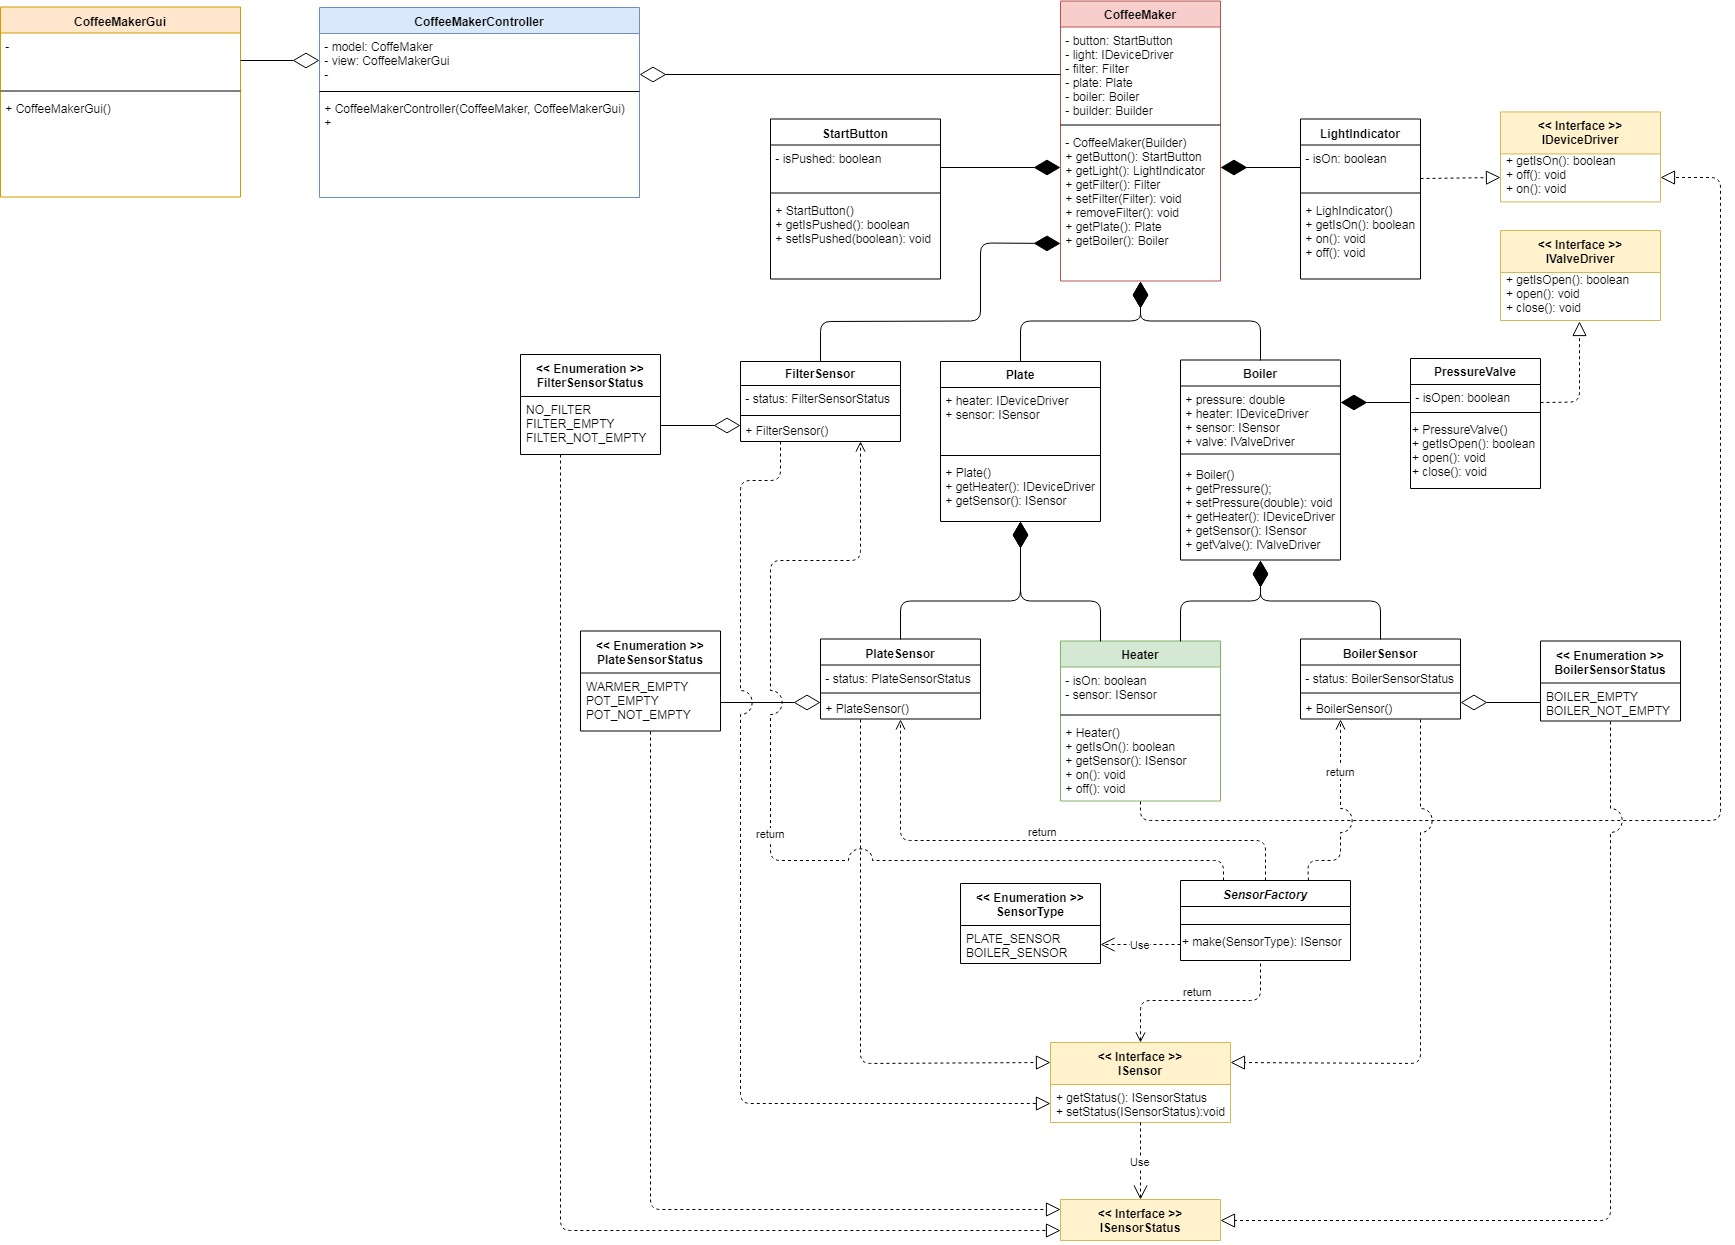
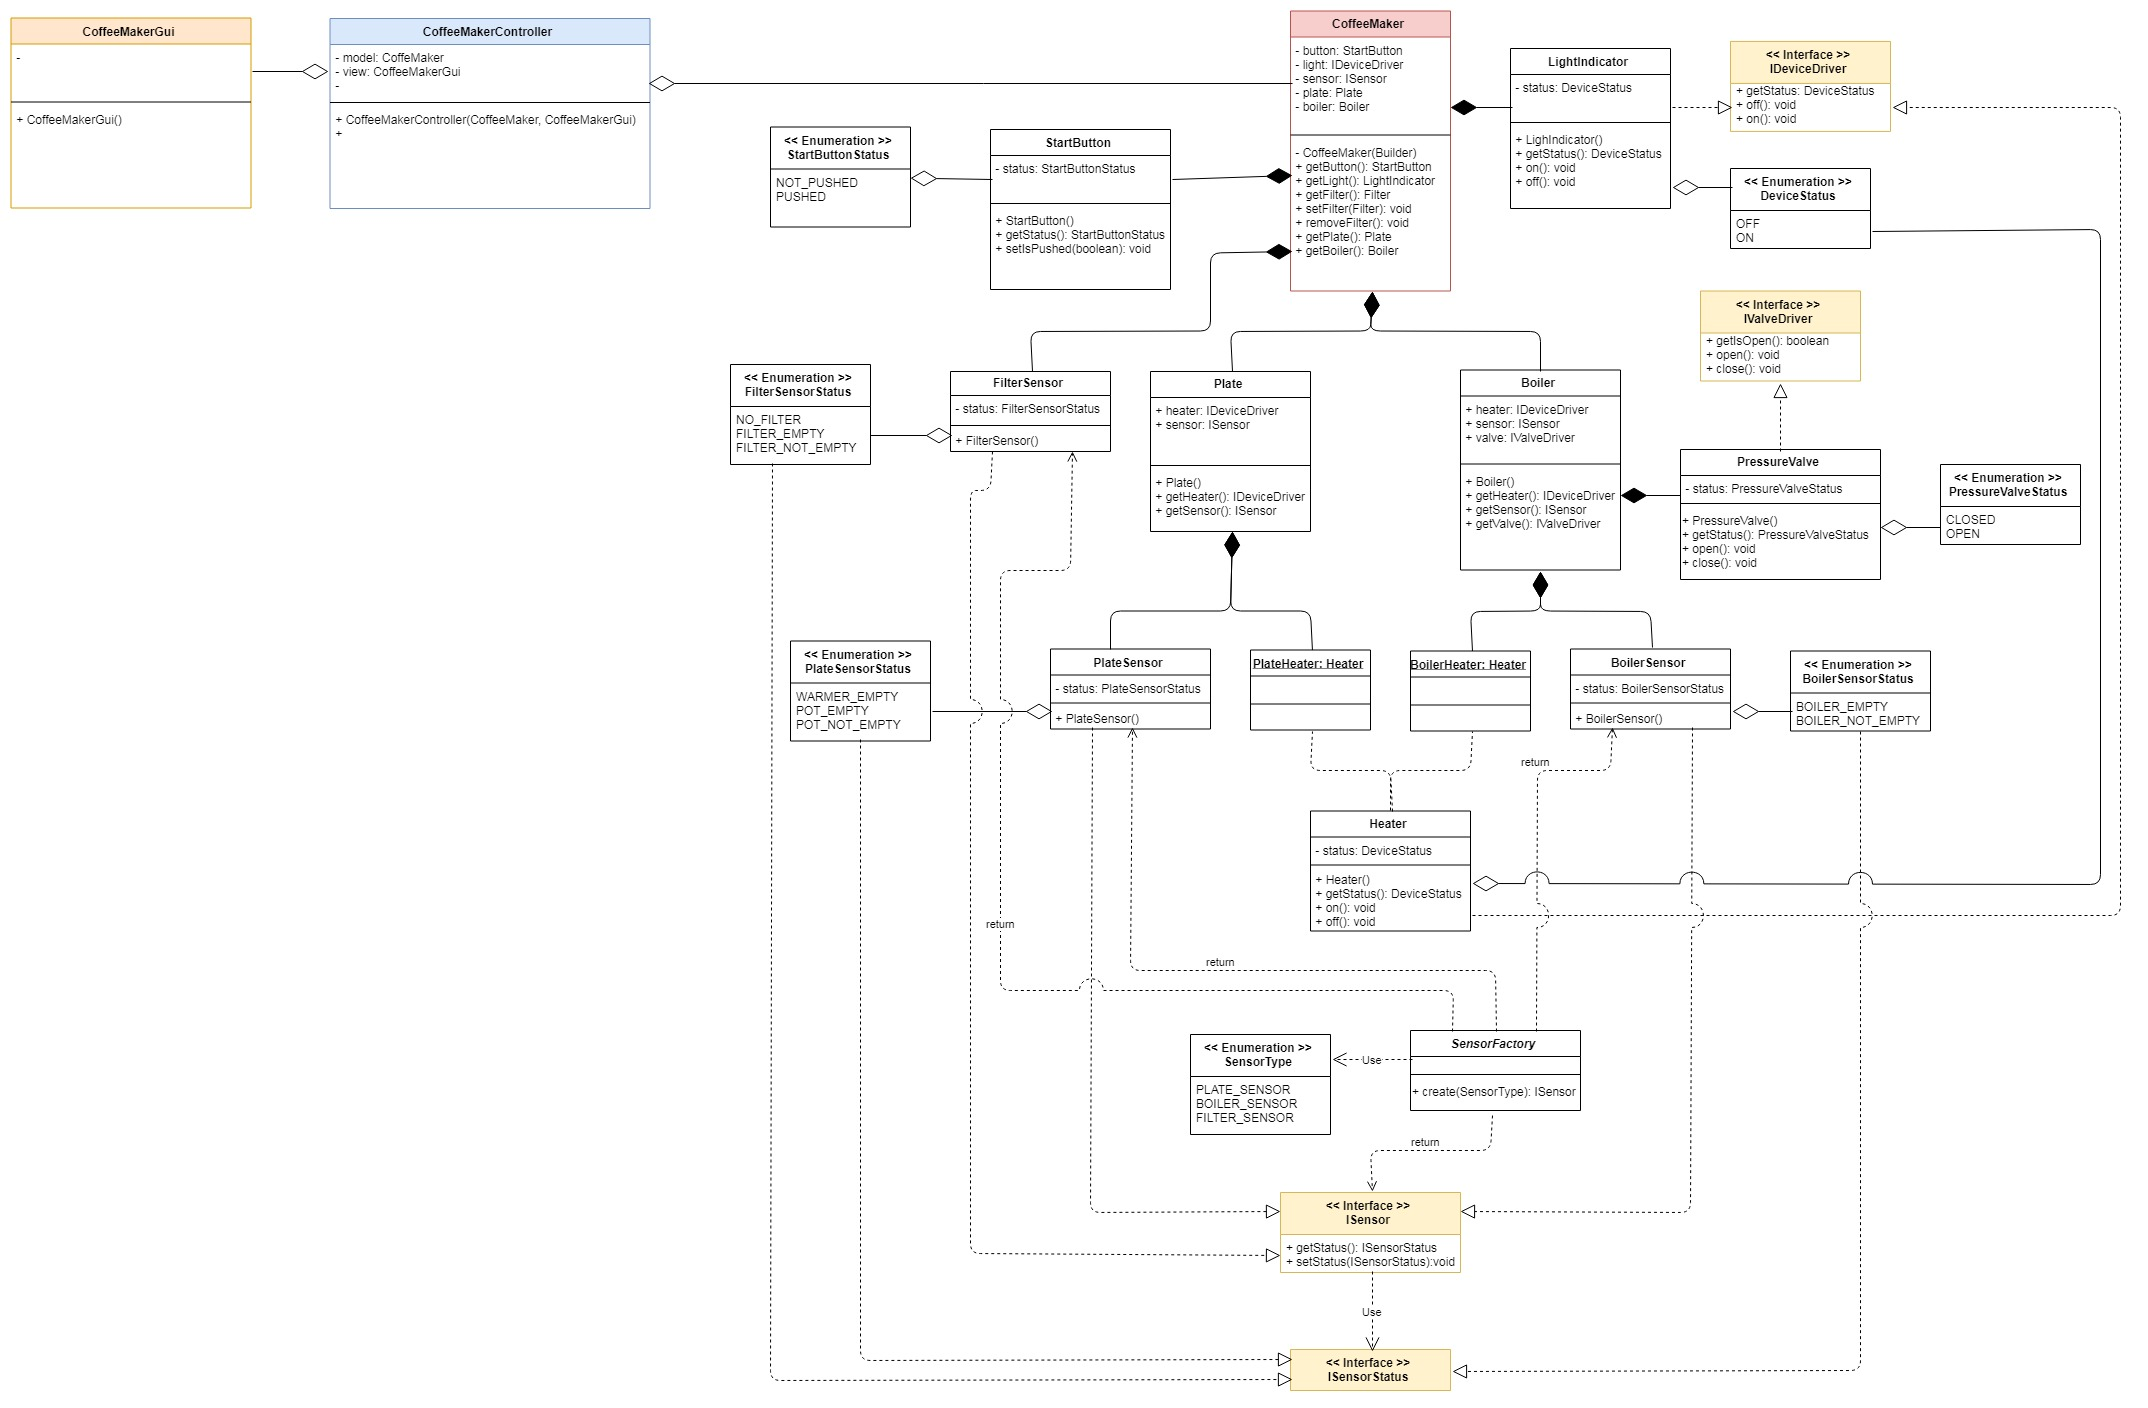
Unit Tests completed. UML diagram updated.

diff --git a/src/controller/CoffeeMakerController.java b/src/controller/CoffeeMakerController.java
@@ -68,7 +68,7 @@ public class CoffeeMakerController {
 				view.setPotEmpty();
 				view.setPlateSensorAsPlateEmpty();
 				model.getPlate().getSensor().setStatus(PlateSensorStatus.POT_EMPTY);
-				if (model.getLight().getStatus() == true) {
+				if (model.getLight().getStatus() == DeviceStatus.ON) {
 					view.setPlateHeaterOff();
 					model.getPlate().getHeater().off();
 				}
@@ -80,7 +80,7 @@ public class CoffeeMakerController {
 				view.setPotUnAvailable();
 				view.setPlateSensorAsWarmerEmpty();
 				model.getPlate().getSensor().setStatus(PlateSensorStatus.WARMER_EMPTY);
-				if (model.getLight().getStatus() == true) {
+				if (model.getLight().getStatus() == DeviceStatus.ON) {
 					view.setPlateHeaterOff();
 					model.getPlate().getHeater().off();
 				}
@@ -91,7 +91,7 @@ public class CoffeeMakerController {
 				view.setPotNotEmpty();
 				view.setPlateSensorAsPlateNotEmpty();
 				model.getPlate().getSensor().setStatus(PlateSensorStatus.POT_NOT_EMPTY);
-				if (model.getLight().getStatus() == true) {
+				if (model.getLight().getStatus() == DeviceStatus.ON) {
 					view.setPlateHeaterOn();
 					model.getPlate().getHeater().on();
 				}
@@ -158,7 +158,7 @@ public class CoffeeMakerController {
 	private boolean checkValve () {
 		boolean missingConditions = true;
 		//VALVE CHECK
-		if (model.getBoiler().getValve().getIsOpen()) {	// 1. Is the relief valve open?
+		if (model.getBoiler().getValve().getStatus() == PressureValveStatus.OPEN) {	// 1. Is the relief valve open?
 			issueReport[0] = "Relief valve must be closed!";
 		}
 		else { 

diff --git a/test/model/HeaterTest.java b/test/model/HeaterTest.java
@@ -6,27 +6,22 @@ import org.junit.Test;
 
 public class HeaterTest {
 	
-	IDeviceDriver heater = new Heater();
+	Heater heater = new Heater();
 
 	@Test
-	public void getStatus_heaterStatus_resultFalse() {
-		assertEquals(false, heater.getStatus());
+	public void getStatus_resultOff() {
+		assertEquals(DeviceStatus.OFF, heater.getStatus());
 	}
 	
 	@Test
-	public void getSensor_retrieveSensorObject_resultISensor() {
-		assertTrue (((Heater) heater).getSensor() instanceof ISensor);
-	}
-
-	@Test
-	public void on_HeaterOn_resultTrue() {
+	public void on_On_resultOn() {
 		heater.on();
-		assertEquals(true, heater.getStatus());
+		assertEquals(DeviceStatus.ON, heater.getStatus());
 	}
 
 	@Test
 	public void off_HeaterOff_resultFalse() {
 		heater.off();
-		assertEquals(false, heater.getStatus());
+		assertEquals(DeviceStatus.OFF, heater.getStatus());
 	}
 }

diff --git a/test/model/BoilerTest.java b/test/model/BoilerTest.java
@@ -5,23 +5,20 @@ import static org.junit.Assert.*;
 import org.junit.Test;
 
 public class BoilerTest {
-
 	Boiler boiler = new Boiler();
 
 	@Test
-	public void pruebaTest_Sensor() {
+	public void getSensor_resultISensor() {
 		assertTrue(boiler.getSensor() instanceof ISensor);
 	}
 	
 	@Test
-	public void pruebaTest_Heater() {
+	public void getHeater_resultIDeviceDriver() {
 		assertTrue(boiler.getHeater() instanceof IDeviceDriver);
 	}
 	
 	@Test
-	public void pruebaTest_Valve() {
+	public void getValve_resultPressureValve() {
 		assertTrue(boiler.getValve() instanceof PressureValve);
 	}
-	
-	
 }

diff --git a/test/model/PressureValveTest.java b/test/model/PressureValveTest.java
@@ -10,19 +10,19 @@ public class PressureValveTest {
 	
 	@Test
 	public void getStatus_pressureValveStatus_resultClosed() {		
-		assertEquals(false, valve.getIsOpen());
+		assertEquals(PressureValveStatus.CLOSED, valve.getStatus());
 	}
 
 	@Test
 	public void on_HeaterOn_resultTrue() {
 		valve.open();
-		assertEquals(true, valve.getIsOpen());
+		assertEquals(true, valve.getStatus());
 	}
 
 	@Test
 	public void off_HeaterOff_resultFalse() {
 		valve.close();
-		assertEquals(false, valve.getIsOpen());
+		assertEquals(false, valve.getStatus());
 	}
 
 }

diff --git a/test/model/FilterSensorTest.java b/test/model/FilterSensorTest.java
@@ -9,12 +9,12 @@ public class FilterSensorTest {
 	ISensor filterSensor = new FilterSensor();
 
 	@Test
-	public void getStatus_resultFilterSensorStatus() {
+	public void getStatus_resultFilterNotEmpty() {
 		assertEquals(FilterSensorStatus.FILTER_NOT_EMPTY, filterSensor.getStatus());
 	}
 
 	@Test
-	public void setStatus_resultFilterSensorStatus() {
+	public void setStatus_filterEmpty_resultFilterEmpty() {
 		filterSensor.setStatus(FilterSensorStatus.FILTER_EMPTY);
 		assertEquals(FilterSensorStatus.FILTER_EMPTY, filterSensor.getStatus());
 	}

diff --git a/test/model/BoilerSensorTest.java b/test/model/BoilerSensorTest.java
@@ -9,12 +9,12 @@ public class BoilerSensorTest {
 	ISensor boilerSensor = new BoilerSensor();
 	
 	@Test
-	public void getStatus_resultBoilerSensorStatus() {
+	public void getStatus_resultBoilerNotEmpty() {
 		assertEquals(BoilerSensorStatus.BOILER_NOT_EMPTY,boilerSensor.getStatus());
 	}
 
 	@Test
-	public void setStatus_resultBoilerSensorStatus() {
+	public void setStatus_boilerEmpty_resultboilerEmpty() {
 		boilerSensor.setStatus(BoilerSensorStatus.BOILER_EMPTY);
 		assertEquals(BoilerSensorStatus.BOILER_EMPTY,boilerSensor.getStatus());
 	}

diff --git a/src/model/PressureValve.java b/src/model/PressureValve.java
@@ -1,21 +1,21 @@
 package model;
 
 public class PressureValve implements IValveDriver {
-	boolean isOpen;
+	PressureValveStatus status;
 	
 	public PressureValve () {
-		isOpen = false;
+		status = PressureValveStatus.CLOSED;
 	}
 
-	public boolean getIsOpen() {
-		return isOpen;
+	public PressureValveStatus getStatus() {
+		return status;
 	}
 
 	public void open() {
-		isOpen = true; 
+		status = PressureValveStatus.OPEN; 
 	}
 
 	public void close() {
-		isOpen = false; 
+		status = PressureValveStatus.CLOSED; 
 	}
 }

diff --git a/src/model/Heater.java b/src/model/Heater.java
@@ -1,26 +1,21 @@
 package model;
 
 public class Heater implements IDeviceDriver {
-	boolean status;
-	ISensor sensor;
+	DeviceStatus status;
 	
 	public Heater () {
-		status = false;
+		status = DeviceStatus.OFF;
 	}
 	
-	public boolean getStatus () {
+	public DeviceStatus getStatus () {
 		return status;
 	}
 	
-	public ISensor getSensor () {
-		return sensor;
-	}
-	
 	public void off() {
-		status = false;
+		status = DeviceStatus.OFF;
 	}
 	
 	public void on() {
-		status = true;
+		status = DeviceStatus.ON;
 	}
 }

diff --git a/src/model/LightIndicator.java b/src/model/LightIndicator.java
@@ -1,21 +1,21 @@
 package model;
 
 public class LightIndicator implements IDeviceDriver {
-	boolean isOn;
+	DeviceStatus status;
 	
 	public LightIndicator() {
-		isOn = false;
+		status = DeviceStatus.OFF;
 	}
 	
-	public boolean getStatus () {
-		return isOn;
+	public DeviceStatus getStatus () {
+		return status;
 	}
 	
 	public void off() {
-		isOn = false;
+		status = DeviceStatus.OFF;
 	}
 	
 	public void on() {
-		isOn = true;
+		status = DeviceStatus.ON;
 	}
 }

diff --git a/src/model/SensorFactory.java b/src/model/SensorFactory.java
@@ -1,7 +1,7 @@
 package model;
 
 abstract public class SensorFactory {
-	public static ISensor make(SensorType sensorType) {
+	public static ISensor create(SensorType sensorType) {
 		switch (sensorType) {
 		case PLATE_SENSOR: 
 			return new PlateSensor();
@@ -10,7 +10,7 @@ abstract public class SensorFactory {
 			return new BoilerSensor();
 
 		case FILTER_SENSOR: 
-			return new BoilerSensor();
+			return new FilterSensor();
 
 		default:
 			return null;

diff --git a/test/model/StartButtonTest.java b/test/model/StartButtonTest.java
@@ -10,12 +10,12 @@ public class StartButtonTest {
 
 	@Test
 	public void getStatus_startButton_resultFalse() {
-		assertEquals(false, button.getIsPushed());
+		assertEquals(StartButtonStatus.OFF, button.getStatus());
 	}
 
 	@Test
 	public void isPushed_startButton_resultFalse() {
-		button.setIsPushed(true);
-		assertEquals(true, button.getIsPushed());
+		button.setStatus(StartButtonStatus.ON);
+		assertEquals(StartButtonStatus.ON, button.getStatus());
 	}
 }

diff --git a/src/model/StartButton.java b/src/model/StartButton.java
@@ -1,18 +1,18 @@
 package model;
 
 public class StartButton {
-	boolean isPushed;
+	StartButtonStatus status;
 	
 	public StartButton() {
-		isPushed = false;
+		status = StartButtonStatus.OFF;
 	}
 	
-	boolean getIsPushed() {
-		return isPushed;
+	StartButtonStatus getStatus() {
+		return status;
 	}
 	
-	void setIsPushed(boolean isPushed) {
-		this.isPushed = isPushed;
+	void setStatus(StartButtonStatus status) {
+		this.status = status;
 	}
 	
 }
